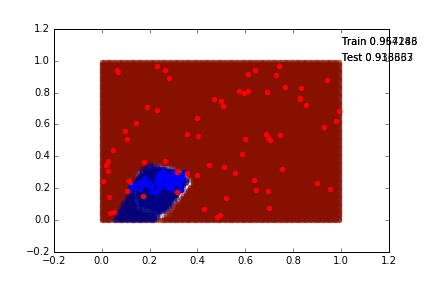
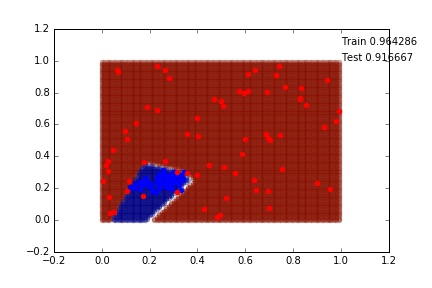
N=16

diff --git a/neuro.py b/neuro.py
@@ -18,6 +18,7 @@ from sklearn.svm import SVC
 from sklearn.metrics import classification_report, confusion_matrix
 import os
 import random
+import pandas as pd
 from scipy import diag,arange
 
 
@@ -55,22 +56,27 @@ import pandas as pd
 #%%
 
 #X, y = make_classification(n_features=100, n_samples=1000)
-EXP_NUM = 24  
-#N = 16
-N=2
+EXP_NUM = 26  
+N = 16
+#N=2
+
 k = 100
 K = 1 #clusters
 
 dl = 35
 np.random.seed(0)
 #corresponds to N, K
-#means =[(0.1,0.1,0.1,0.1,0.1,0.1,0.1,0.3,0.1,0.7,0.1,0.1,0.4,0.2,0.1,0.7), (0.4,0.5,0.4,0.5,0.4,0.5,0.4,0.5,0.4,0.5,0.4,0.5,0.4,0.5,0.4,0.5)]
-#cov =[diag([0.1/35,0.05/35,0.1/35,0.05/35,0.1/35,0.05/35,0.1/35,0.05/35,0.1/35,0.05/35,0.1/35,0.05/35,0.1/35,0.05/35,0.1/35,0.05/35]), diag([0.2/35,0.05/35,0.2/35,0.05/35,0.2/35,0.05/35,0.2/35,0.05/35,0.2/35,0.05/35,0.2/35,0.05/35,0.2/35,0.05/35,0.2/35,0.05/35])]
+means =[(0.1,0.1,0.1,0.1,0.1,0.1,0.1,0.3,0.1,0.7,0.1,0.1,0.4,0.2,0.1,0.7), (0.4,0.5,0.4,0.5,0.4,0.5,0.4,0.5,0.4,0.5,0.4,0.5,0.4,0.5,0.4,0.5)]
+cov =[diag([0.1/35,0.05/35,0.1/35,0.05/35,0.1/35,0.05/35,0.1/35,0.05/35,0.1/35,0.05/35,0.1/35,0.05/35,0.1/35,0.05/35,0.1/35,0.05/35]), diag([0.2/35,0.05/35,0.2/35,0.05/35,0.2/35,0.05/35,0.2/35,0.05/35,0.2/35,0.05/35,0.2/35,0.05/35,0.2/35,0.05/35,0.2/35,0.05/35])]
 
-means =[(0.25,0.25),            (0.75,0.75),           (0.1,0.1),            (0.45,0.7),              (0.8,0.24)]
-cov =  [diag([0.1/dl,0.05/dl]), diag([0.2/dl,0.05/dl]),diag([0.2/dl,0.05/dl]), diag([0.02/dl,0.08/dl]),diag([0.02/dl,0.08/dl]) ]
+#means =[(0.25,0.25),            (0.75,0.75),           (0.1,0.1),            (0.45,0.7),              (0.8,0.24)]
+#cov =  [diag([0.1/dl,0.05/dl]), diag([0.2/dl,0.05/dl]),diag([0.2/dl,0.05/dl]), diag([0.02/dl,0.08/dl]),diag([0.02/dl,0.08/dl]) ]
   
-MAX_EPOCHS = 700
+MAX_EPOCHS = 3500
+
+
+
+
 
 #%%
 class DataParams:
@@ -118,7 +124,7 @@ class DataParams:
         return (np.array(X),np.array(y))
 
 #%%
-dataParams = DataParams()
+dataParams = DataParams(N=N,k=k,means = means, cov =cov)
 (X,y) = dataParams.create_model_data()
 
 
@@ -190,7 +196,7 @@ class NeuroModel:
     def fit_model(self):
         h1 = self.model.get_config()[0]['config']['units']
         h2 = self.model.get_config()[1]['config']['units']
-        model_name = "{}{}_{}".format(self.code,h1,h2)
+        model_name = "{}{}_{}_16".format(self.code,h1,h2)
         #не знаю, совпадает ли значение 
         checkpointer = ModelCheckpoint(filepath = "models/{}model.h5".format(model_name),monitor = "val_acc",verbose = 0,save_best_only = 1, save_weights_only = 1)
         #earlystopper = EarlyStopping(monitor ="loss", verbose = 0 , mode = "auto")
@@ -200,12 +206,15 @@ class NeuroModel:
         while  follow_flag:
             counter += 1
             fit_info = self.model.fit(X_train,Y_train,batch_size = self.batch_size,  \
-                                      epochs = self.max_epochs,verbose = 0,  \
+                                      epochs = self.max_epochs,verbose = 2,  \
                                       validation_data =(X_test,Y_test), callbacks = [checkpointer])
-            crit = np.sum(np.array(b[1:len(b)]) - np.array(b[0:len(b)-1]))
-            if crit < 0.2 :
-                follow_flag = False
-                print("Srabotal crit counter ={}, crit = {}".format(counter, crit))
+            
+            acc_fit = fit_info.history['acc']
+            crit = np.sum(np.array(acc_fit[1:len(acc_fit)]) - np.array(acc_fit[0:len(acc_fit)-1]))
+            print("Crit : {} ".format(crit))
+#            if crit < 0.2 :
+#                follow_flag = False
+#                print("Srabotal crit counter ={}, crit = {}".format(counter, crit))
             if  counter *self.max_epochs > MAX_EPOCHS:
                 follow_flag = False
         resTime = time.time() - a #in seconds
@@ -223,10 +232,10 @@ class NeuroModel:
 #%%
 df = pd.DataFrame(columns = ["model", "time","acc_train", "acc_test"])
 
-neuros_num = [ [i,j] for i in np.arange(4,21,2) for j in np.arange(5,20,2)]
+neuros_num = [ [i,j] for i in np.arange(4,21,2) for j in np.arange(4,20,2)]
 
 #for i in np.arange(len(neuros_num)): 
-for i in np.arange(4,5):
+for i in np.arange(26,27):
     try:
         del model
     except:
@@ -239,7 +248,7 @@ for i in np.arange(4,5):
     df = df.append(s, ignore_index= True)
     print("{} done".format(model_name))
 #%%
-df.to_csv("exp_ {}.csv".format(EXP_NUM),sep = ";")
+df.to_csv("exp_{}.csv".format(EXP_NUM),sep = ";")
 df["neuro1"] = df.model[:].apply(lambda x : int(x[3:].split("_")[0]))
 df["neuro2"] = df.model[:].apply(lambda x : int(x[3:].split("_")[1]))
 
@@ -257,7 +266,7 @@ df["neuro2"] = df.model[:].apply(lambda x : int(x[3:].split("_")[1]))
 
 #%%
 #fig.colorbar(surf, shrink=0.5, aspect=5)
-#score_test  = model.evaluate(X_test,Y_test,verbose =0)
+score_test  = model.model.evaluate(X_test,Y_test,verbose =0)
 ##print('Test score:',score_test[0])
 #print('Test accuracy:',score_test[1])
 #
@@ -265,7 +274,7 @@ df["neuro2"] = df.model[:].apply(lambda x : int(x[3:].split("_")[1]))
 ##print('Train score:',score_train[0])
 #print('Train accuracy:',score_train[1])
 # 
- plt.scatter(XZ0[:,0],XZ0[:,1], color = '# ', alpha = 0.3)
+# plt.scatter(XZ0[:,0],XZ0[:,1], color = '# ', alpha = 0.3)
 #%%
 #ROC - кривые - порог
 #res_train= model.predict_on_batch(X_train)
